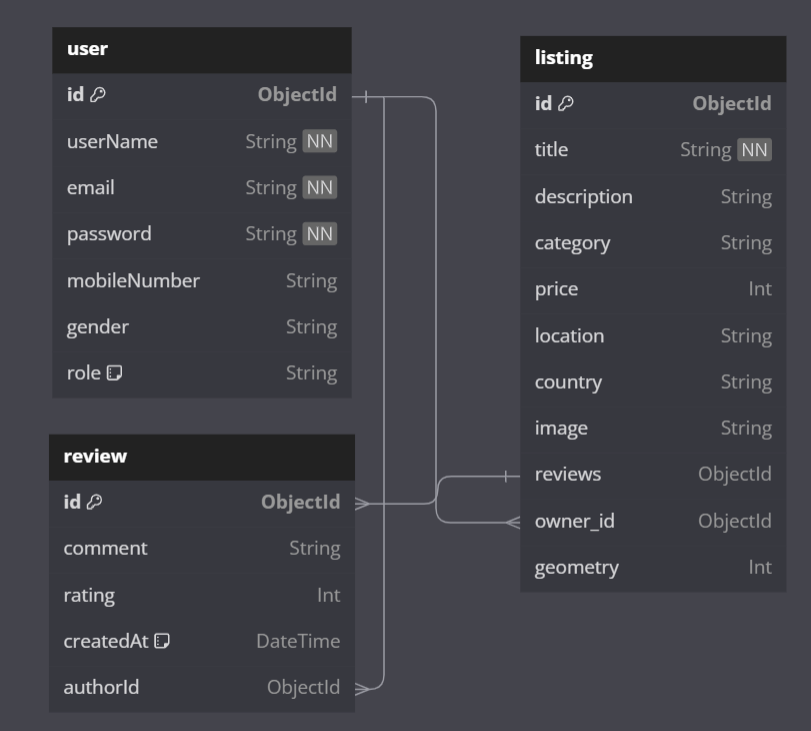
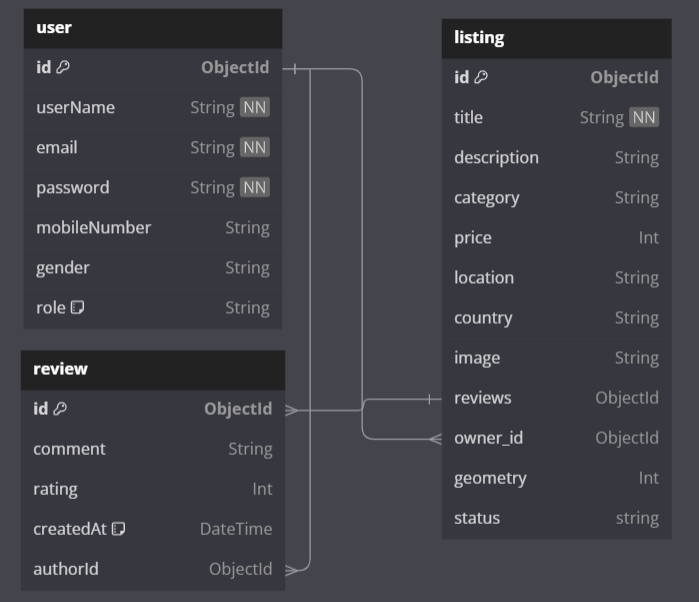
changes in schema

diff --git a/05_backend/models/listing.js b/05_backend/models/listing.js
@@ -29,16 +29,20 @@ const listingSchema = new Schema({
     },
     geometry : {
       type : {
-      type : String,
-      enum : ["Point"],
-      required : true
-    },
-    coordinates : {
+        type : String,
+        enum : ["Point"],
+        required : true
+      },
+      coordinates : {
         // coordinates are in array format.
-      type : [Number],
-      required : true
+        type : [Number],
+        required : true
+      },
     },
-  }
+    status : {
+      type : String,
+      required : true,
+    }
   });
 
 // Create the Listing model
